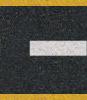
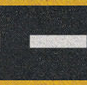
تغییر اندازه ی لاین ها به ۷۰ تغییر اندازه ی کامیون

diff --git a/trunk/src/CrossWalk/Const.java b/trunk/src/CrossWalk/Const.java
@@ -18,7 +18,7 @@ public final class Const {
     // Line
     public final static String LINE_ROOT_IMAGE = "\\src\\resources\\Line\\MainLines";
     public final static String LINE_IMAGE = "\\src\\resources\\Line\\MainLines\\Line_{0}.png";
-    public final static int LINE_HEIGHT = 100;
+    public final static int LINE_HEIGHT = 85;
     public final static int LINE_WIDTH = 87;
     public final static boolean LINE_DIRECTION_RTL = true;
     public final static boolean LINE_DIRECTION_LTR = false;
